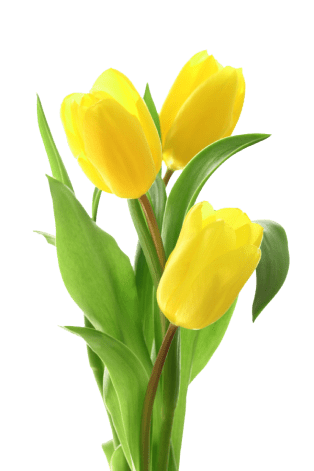
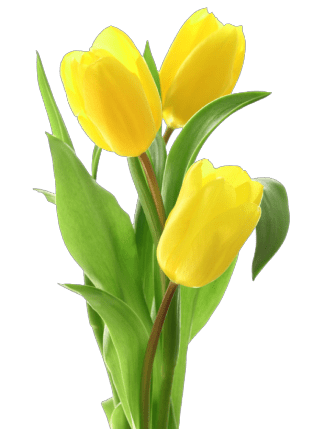
features section completed

Changed region(s): [[0.1146, 0.0, 0.9459, 0.9697]]

diff --git a/style.css b/style.css
@@ -1,4 +1,4 @@
-@import url('https://fonts.googleapis.com/css2?family=Lato:wght@400;700;900&display=swap');
+@import url("https://fonts.googleapis.com/css2?family=Lato:wght@400;700;900&display=swap");
 
 * {
     margin: 0;
@@ -8,17 +8,26 @@
 }
 
 /* common shared styles */
-#banner {
+#banner,
+#feature {
     width: 80%;
     margin: 0 auto;
 }
+
+.section-title {
+    color: #272727;
+    font-size: 35px;
+    font-weight: 800;
+}
+
 p {
     color: rgba(39, 39, 39, 0.60);
     font-size: 18px;
     font-weight: 400;
     line-height: 30px;
-    margin: 20px 0;
+    margin: 15px 0;
 }
+
 .btn {
     padding: 10px 30px;
     background-color: #E55473;
@@ -27,6 +36,14 @@ p {
     cursor: pointer;
     border-radius: 4px;
     font-size: 17px;
+}
+
+.center {
+    text-align: center;
+}
+
+.margin-top {
+    margin-top: 80px;
 }
 
 /* header section */
@@ -40,20 +57,77 @@ header {
     align-items: center;
     padding-top: 1.5rem;
 }
-.banner-text, .banner-image {
+
+.banner-text,
+.banner-image {
     width: 50%;
 }
+
 .banner-text h1 {
     color: #272727;
     font-size: 55px;
     font-weight: 800;
 }
+
 .banner-image {
     display: flex;
     align-items: center;
     justify-content: right;
 }
+
 .banner-image img {
     display: inline-block;
     width: 75%;
+}
+
+/* feature section */
+.feature-content {
+    width: 70%;
+    margin-left: auto;
+    margin-right: auto;
+}
+
+.flowers-container {
+    display: flex;
+    align-items: center;
+    justify-content: space-evenly;
+    margin-top: 30px;
+    gap: 20px;
+}
+
+.flower h4 {
+    color: #272727;
+    font-size: 22px;
+    font-weight: 700;
+    line-height: 35px;
+    text-decoration-line: underline;
+    margin-top: 10px;
+}
+
+.flower-image {
+    display: flex;
+    align-items: end;
+    justify-content: center;
+    height: 370px;
+    padding: 30px 30px 0 30px;
+    border-top-left-radius: 175px;
+    border-top-right-radius: 175px;
+}
+
+.flower-image img {
+    width: 250px;
+    display: inline-block;
+}
+
+.flower-one {
+    background-color: #F2DEE8;
+}
+
+.flower-two {
+    background-color: #DAF0F1;
+    align-items: center;
+}
+
+.flower-three {
+    background-color: #E4ECDC;
 }

diff --git a/index.html b/index.html
@@ -20,8 +20,38 @@
             </div>
         </section>
     </header>
-    
-    <main></main>
+
+    <main>
+        <!-- feature section -->
+        <section id="feature">
+            <div class="feature-content center margin-top">
+                <h3 class="section-title">Our Featured Flowers</h3>
+                <p>It is a long established fact that a reader will be distracted by the readable content of a page when looking at its layout.</p>
+
+                <div class="flowers-container">
+                    <div class="flower">
+                        <div class="flower-image flower-one">
+                            <img src="./images/pngwing6.png" alt="flower">
+                        </div>
+                        <h4>Pink Flower Tree</h4>
+                    </div>
+                    <div class="flower">
+                        <div class="flower-image flower-two">
+                            <img src="./images/pngwing5.png" alt="flower">
+                        </div>
+                        <h4>Pink Flower Tree</h4>
+                    </div>
+                    <div class="flower">
+                        <div class="flower-image flower-three">
+                            <img src="./images/pngwing7.png" alt="flower">
+                        </div>
+                        <h4>Yellow Flower Tree</h4>
+                    </div>
+                </div>
+            </div>
+        </section>
+
+    </main>
     <footer></footer>
 </body>
 </html>
